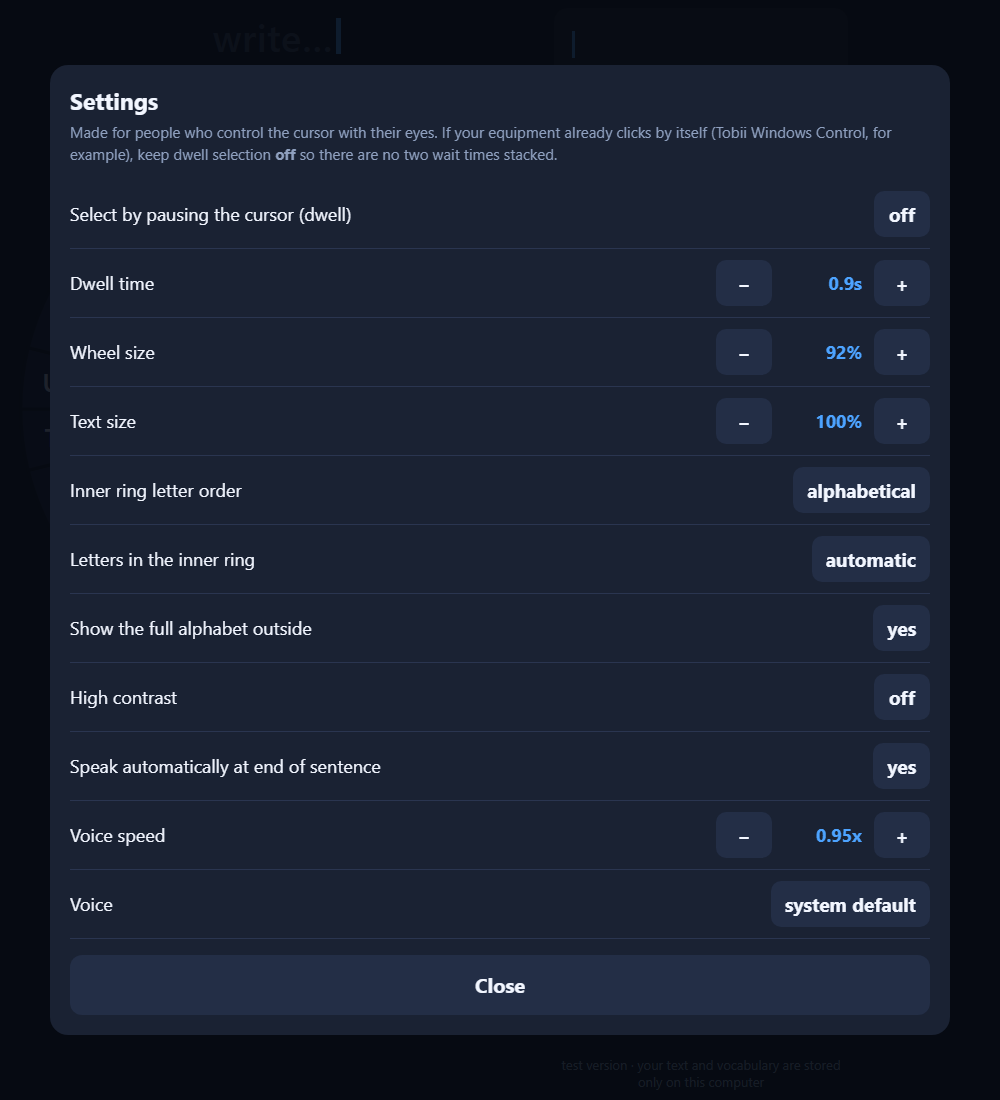
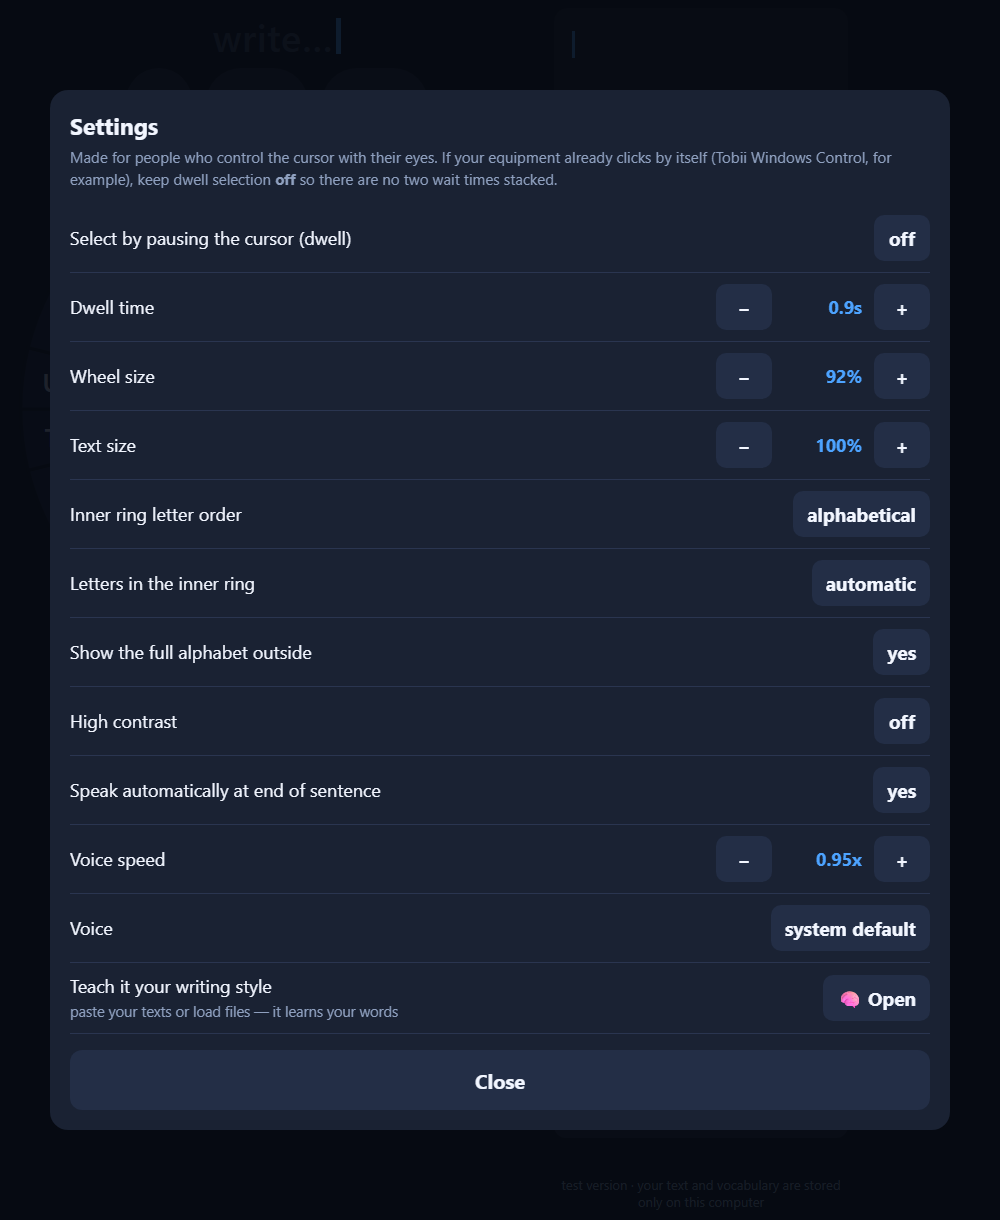
Teach: shortcut from Settings and 'your most used words' list

diff --git a/teste.html b/teste.html
@@ -126,6 +126,9 @@
   .mini{background:var(--panel2); border-radius:10px; height:46px; min-width:56px; font-size:19px; font-weight:700; padding:0 14px;}
   .mini:hover{background:#33436a;}
   .mini.on{background:var(--accent); color:#0f1420;}
+  #topWords{display:flex; flex-wrap:wrap; gap:8px; margin:10px 0 4px;}
+  #topWords span{background:var(--panel2); border-radius:999px; padding:6px 14px; font-size:16px; color:#cddaf0;}
+  #topWords span b{color:var(--accent); font-weight:700; margin-left:6px; font-size:14px;}
   #phraseGrid{display:grid; grid-template-columns:repeat(auto-fill,minmax(270px,1fr)); gap:10px; margin-bottom:14px;}
   .phrase{background:var(--panel2); border-radius:14px; padding:16px 18px; font-size:20px; text-align:left; min-height:66px; line-height:1.3;}
   .phrase:hover{background:#33436a;}
@@ -202,6 +205,8 @@
     <button class="mini tgt" id="learnImp"><span class="fill"></span>⬆ Import learning</button>
   </div>
   <div class="row"><label id="learnStats"></label></div>
+  <div class="row" style="display:block"><label>Your most used words</label>
+    <div id="topWords"></div></div>
   <button class="close tgt" data-close><span class="fill"></span>Close</button>
 </div></div>
 
@@ -241,6 +246,8 @@
     <button class="mini tgt" id="rateUp"><span class="fill"></span>+</button></div>
   <div class="row"><label>Voice</label>
     <button class="mini tgt" id="cfgVoice"><span class="fill"></span>—</button></div>
+  <div class="row"><label>Teach it your writing style<br><span style="font-size:14.5px;color:var(--dim)">paste your texts or load files — it learns your words</span></label>
+    <button class="mini tgt" id="cfgTeach"><span class="fill"></span>🧠 Open</button></div>
   <button class="close tgt" data-close><span class="fill"></span>Close</button>
 </div></div>
 
@@ -985,6 +992,28 @@ function openModal(id){ closeModals(); document.getElementById(id).classList.add
 document.querySelectorAll("[data-close]").forEach(b => bind(b, closeModals));
 addEventListener("keydown", e => { if(e.key === "Escape") closeModals(); });
 
+/* as palavras que mais definem o estilo da pessoa — prova visível do aprendizado */
+function renderTopWords(){
+  const box = document.getElementById("topWords");
+  if(!box) return;
+  const ks = Object.keys(LEARN).sort((a,b) => used(b) - used(a)).slice(0, 24);
+  box.innerHTML = "";
+  if(!ks.length){
+    const e = document.createElement("span");
+    e.textContent = "nothing yet — paste a text above and the words you use most will show up here";
+    box.appendChild(e);
+    return;
+  }
+  for(const w of ks){
+    const e = document.createElement("span");
+    e.textContent = w;
+    const n = document.createElement("b");
+    n.textContent = Math.round(used(w));
+    e.appendChild(n);
+    box.appendChild(e);
+  }
+}
+
 function syncCfgUI(){
   const set = (id, v) => { const e = document.getElementById(id); if(e) e.textContent = v; };
   set("cfgDwell", cfg.dwell ? "on" : "off");
@@ -1005,6 +1034,7 @@ function syncCfgUI(){
   const stats = document.getElementById("learnStats");
   if(stats) stats.textContent = Object.keys(LEARN).length + " of your words learned · " +
     Object.keys(NEXT).length + " chains · " + ALL.length + " words in the dictionary";
+  renderTopWords();
 }
 function setCfg(patch){ Object.assign(cfg, patch); save(K.cfg, cfg); syncCfgUI(); fit(); render(); }
 
@@ -1016,6 +1046,7 @@ B("talkClose", () => document.getElementById("talkOverlay").classList.remove("on
 B("btnPhrases",() => { renderPhrases(); openModal("mPhrases"); });
 B("btnCfg",    () => { syncCfgUI(); openModal("mCfg"); });
 B("btnLearn",  () => { syncCfgUI(); openModal("mLearn"); });
+B("cfgTeach",  () => { syncCfgUI(); openModal("mLearn"); });
 B("btnClear",  () => { pushUndo(); text = ""; caret = 0; page = 0; render(); say("text cleared — undo is on the wheel"); });
 B("btnPrev",   () => moveWord(-1));
 B("btnNext",   () => moveWord(1));
